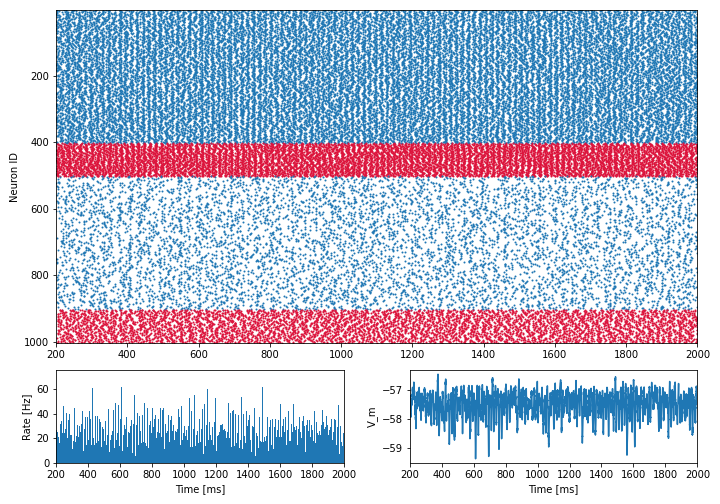
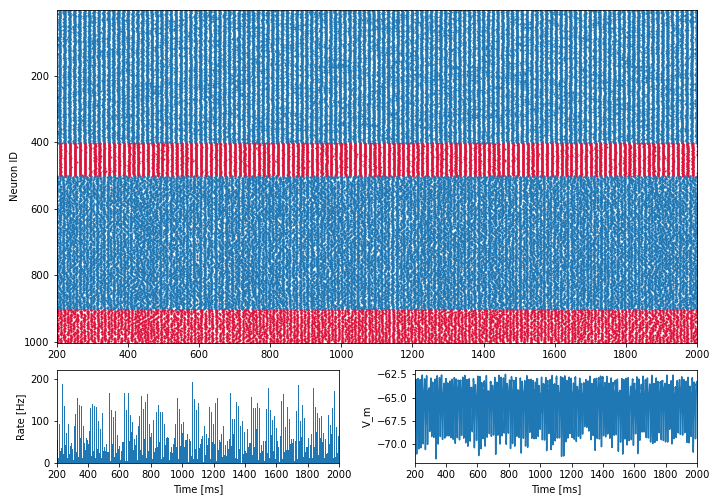
updated

diff --git a/simulation/setup.py b/simulation/setup.py
@@ -112,48 +112,24 @@ def setup():
         'second_net' :   False,
         'num_neurons': np.array([400, 100, 400, 100]),
         'cell_params'  : [{
-                            'V_m'        :  -70.,
-                            'V_th'       :  -50.,
-                            'V_reset'    :  -70.,
-                            'C_m'        :  250.,
-                            't_ref'      :    2.,
-                            'tau_syn_ex' :   1.4,
-                            'tau_syn_in' :   .25,
-                            'E_L'        : -65.0,
-                            'tau_m'      :  14.0,
+                            'tau_syn_ex' :   2.0,
+                            'tau_syn_in' :   0.5,
+                            'tau_m'      :  25.0
                         },
                         {
-                            'V_m'        :  -70.,
-                            'V_th'       :  -49.,
-                            'V_reset'    :  -70.,
-                            'C_m'        :  250.,
-                            't_ref'      :    2.,
-                            'tau_syn_ex' :   0.9,
-                            'tau_syn_in' :   .25,
-                            'E_L'        : -65.0,
-                            'tau_m'      :  23.0,
+                            'tau_syn_ex' :    1.,
+                            'tau_syn_in' :   0.5,
+                            'tau_m'      :  23.0
                         },
                          {
-                            'V_m'        :  -70.,
-                            'V_th'       :  -50.,
-                            'V_reset'    :  -70.,
-                            'C_m'        :  250.,
-                            't_ref'      :    2.,
-                            'tau_syn_ex' :   1.3,
-                            'tau_syn_in' :   .25,
-                            'E_L'        : -65.0,
-                            'tau_m'      :  13.0,
+                            'tau_syn_ex' :   1.8,
+                            'tau_syn_in' :   0.5,
+                            'tau_m'      :  17.0
                         },
                         {
-                            'V_m'        :  -70.,
-                            'V_th'       :  -49.,
-                            'V_reset'    :  -70.,
-                            'C_m'        :  250.,
-                            't_ref'      :    2.,
-                            'tau_syn_ex' :   0.9,
-                            'tau_syn_in' :   .25,
-                            'E_L'        : -65.0,
-                            'tau_m'      :  23.0,
+                            'tau_syn_ex' :    1.,
+                            'tau_syn_in' :   0.5,
+                            'tau_m'      :  23.0
                         }],
         
         'pop_name'   : ['L1_E', 'L1_I',
@@ -177,75 +153,6 @@ def setup():
                  [0.1          , 0.1         , 0.1         , 0.1         ]] ## Net2_I2
                 )
         }
-    ## AI Regime
-    # {
-    #                       'V_m'        :  -70.,
-    #                       'V_th'       :  -50.,
-    #                       'V_reset'    :  -76.,
-    #                       'C_m'        :  250.,
-    #                       't_ref'      :    3.,
-    #                       'tau_syn_ex' :     1,
-    #                       'tau_syn_in' :     1,
-    #                       'E_L'        : -65.0,
-    #                       'tau_m'      :  20.0,
-    #                   },
-    #                   {
-    #                       'V_m'        :  -70.,
-    #                       'V_th'       :  -49.,
-    #                       'V_reset'    :  -76.,
-    #                       'C_m'        :  250.,
-    #                       't_ref'      :    4.,
-    #                       'tau_syn_ex' :     1,
-    #                       'tau_syn_in' :     1,
-    #                       'E_L'        : -65.0,
-    #                       'tau_m'      :  20.0,
-    #                   },
-    ###########################################################################
-    ## Gamma/Beta Oscillations
-    # [{
-    #                     'V_m'        :  -70.,
-    #                     'V_th'       :  -50.,
-    #                     'V_reset'    :  -70.,
-    #                     'C_m'        :  250.,
-    #                     't_ref'      :    2.,
-    #                     'tau_syn_ex' :   0.95,
-    #                     'tau_syn_in' :   .25,
-    #                     'E_L'        : -65.0,
-    #                     'tau_m'      :  27.0,
-    #                 },
-    #                 {
-    #                     'V_m'        :  -70.,
-    #                     'V_th'       :  -49.,
-    #                     'V_reset'    :  -70.,
-    #                     'C_m'        :  250.,
-    #                     't_ref'      :    2.,
-    #                     'tau_syn_ex' :   0.9,
-    #                     'tau_syn_in' :    .25,
-    #                     'E_L'        : -65.0,
-    #                     'tau_m'      :  23.0,
-    #                 },
-    #                  {
-    #                     'V_m'        :  -70.,
-    #                     'V_th'       :  -50.,
-    #                     'V_reset'    :  -70.,
-    #                     'C_m'        :  250.,
-    #                     't_ref'      :    2.,
-    #                     'tau_syn_ex' :   1.3,
-    #                     'tau_syn_in' :   .25,
-    #                     'E_L'        : -65.0,
-    #                     'tau_m'      :  28.0,
-    #                 },
-    #                 {
-    #                     'V_m'        :  -70.,
-    #                     'V_th'       :  -49.,
-    #                     'V_reset'    :  -70.,
-    #                     'C_m'        :  250.,
-    #                     't_ref'      :    2.,
-    #                     'tau_syn_ex' :   1.3,
-    #                     'tau_syn_in' :   .5,
-    #                     'E_L'        : -65.0,
-    #                     'tau_m'      :  24.0,
-    #                 }]
     
     ################################################################
     ## Specify connectivity in and between layers and populations ##
@@ -286,10 +193,10 @@ def setup():
     ## Background stimulation parameters ##
     #######################################
 
-    params['ext_rate'] = 35.0
+    params['ext_rate'] = 30.0
     params['ext_nodes']   = np.array(
-        [100, 100, 
-         100, 100])
+        [100, 0, 
+         100, 0])
     
     weight = syn_strength
     

diff --git a/simulation/run.py b/simulation/run.py
@@ -400,15 +400,15 @@ if rank == 0:
     for data in net1_spike_data:
         outcomes.append(analyze_spike_trains(data))
     
-    if not params['opt_run']:
-        import matplotlib.pyplot as plt
-        for outcome in outcomes:
-            for item in outcome['band powers'].values():
-                plt.plot(item)
-            plt.legend(outcome['band powers'].keys())
-            plt.show()
-        if params['verbose'] and rank == 0:
-            print(f"Done. Final time: {time.time() - st}")
+    # if not params['opt_run']:
+    #     import matplotlib.pyplot as plt
+    #     for outcome in outcomes:
+    #         for item in outcome['band powers'].values():
+    #             plt.plot(item)
+    #         plt.legend(outcome['band powers'].keys())
+    #         plt.show()
+    #     if params['verbose'] and rank == 0:
+    #         print(f"Done. Final time: {time.time() - st}")
     
     ###########################################################################
     ## Calculate measures 

diff --git a/simulation/opt_parameter_exploration.py b/simulation/opt_parameter_exploration.py
@@ -38,8 +38,8 @@ opt_results = {
 ## Change values and run the function with different parameters
 iteration = 1
 
-tau_m_range = range(5,21,1)
-tau_syn_ex_range = np.arange(1, 2.1, 0.1)
+tau_m_range = range(10,26,1)
+tau_syn_ex_range = np.arange(1.5, 2.6, 0.1)
 
 
 total_iter = len(tau_m_range) * len(tau_syn_ex_range)
